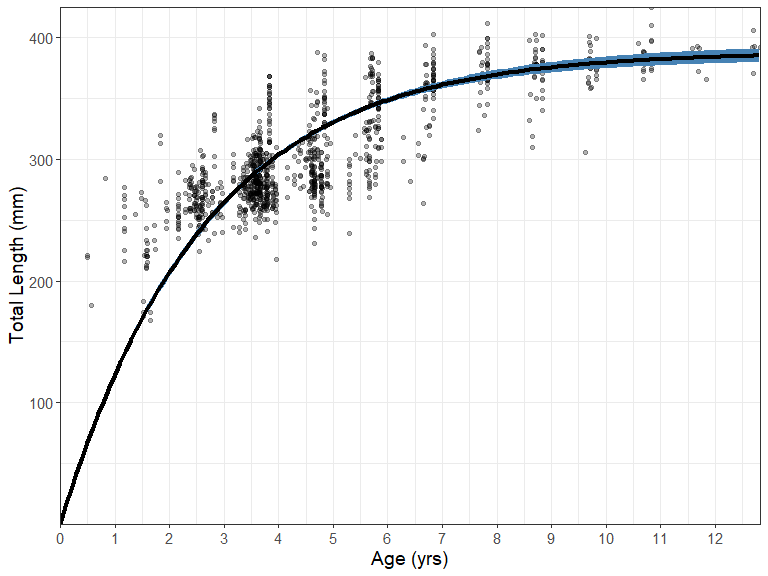
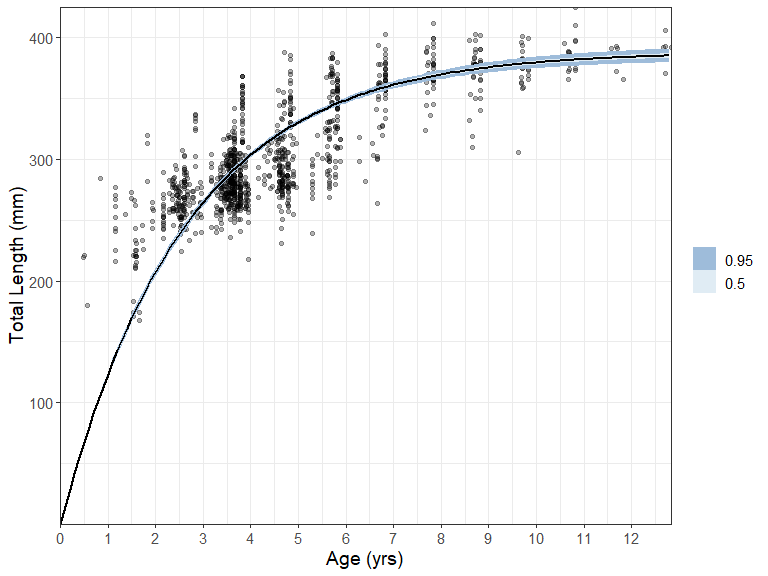
Tidied README

diff --git a/README.md b/README.md
@@ -8,12 +8,12 @@ BayesGrowth
 
 BayesGrowth combines length-at-age modelling for fisheries with MCMC implemented using JAGS and the [rjags](https://cran.r-project.org/web/packages/rjags/index.html) package. Growth modelling using models such as the von Bertalanffy growth model involves three parameters: *L*<sub>∞</sub>, *k* and either *L*<sub>0</sub> or *t*<sub>0</sub>. Two of these parameters: *L*<sub>0</sub> and *L*<sub>∞</sub> have direct biological meaning as the size-at-birth and maximum length, respectively. This package provides the tools to run an MCMC model with these two parameters treated as size-at-birth and maximum length using a JAGS model. This MCMC model is pre-specified and built into wrapper functions.
 
-The user can therefore run an MCMC growth model using knowledge of species length-at-birth and maximum size ast priors.
+The user can therefore run an MCMC growth model using knowledge of species length-at-birth and maximum size as priors.
 
 Installation
 ------------
 
-This package provides a series of wrapper functions to the rjags package which will run JAGS ("Just Another Gibbs Sampler") MCMC models. Therefore, *JAGS must be installed before this package is installed*. To install JAGS, visit: <https://sourceforge.net/projects/mcmc-jags/files/>
+This package provides a series of wrapper functions to the rjags package which will run JAGS ("Just Another Gibbs Sampler") MCMC models. Therefore, **JAGS must be installed before this package is installed**. To install JAGS, visit: <https://sourceforge.net/projects/mcmc-jags/files/>
 
 You can install the released version of BayesGrowth from [Github](https://github.com/jonathansmart/BayesGrowth) with:
 
@@ -24,7 +24,7 @@ devtools::install_github("jonathansmart/BayesGrowth")
 Usage
 -----
 
-The main `BayesGrowth` function is `Estimate_MCMC_Growth` which is the wrapper function around an rjags model. It requires a data input that includes Age and Length, a model needs to be specified (several options are available) and the priors must be specified. Priors include the max size with an error, length-at-birth with an error, an upper value for *k* and *σ*. These latter two parameters have no informative priors so just need senscible upper bounds. Many fish species (including this example) have a size at birth of zero. Therefore, this can be used along with a very small error to indicate that this is a certain value. The `L0.se` argument cannot be zero, although the model is specified to truncate it to zero and keep growth positive.
+The main `BayesGrowth` function is `Estimate_MCMC_Growth` which is the wrapper function around an rjags model. It requires a data input that includes columns that can be identified "Age" and "Length", the model needs to be specified (several options are available) and the priors must be specified. Priors include the max size with an error, length-at-birth with an error and upper limits for *k* and *σ*. These latter two parameters have no informative priors and only require sensible upper bounds. Many fish species (including this example) have a size at birth of zero. Therefore, this can value can be used as a prior along with a very small error to indicate high certainty of this prior. The `L0.se` argument cannot be zero, but the model is specified to truncate *L*<sub>0</sub> at zero and keep growth positive.
 
 ``` r
 library(BayesGrowth)
@@ -57,13 +57,13 @@ head(results)
 #> End = 1007 
 #> Thinning interval = 1 
 #>                L0     Linf         k    sigma
-#> [1,] 0.0007140421 389.2083 0.3812362 33.88953
-#> [2,] 0.0009684128 388.0148 0.3774248 33.74464
-#> [3,] 0.0000225300 389.3610 0.3833927 33.02893
-#> [4,] 0.0003189595 385.8569 0.3813557 33.42119
-#> [5,] 0.0001301606 387.0420 0.3821805 33.38645
-#> [6,] 0.0008697618 387.2100 0.3810786 34.72908
-#> [7,] 0.0001933690 389.9525 0.3807542 32.30058
+#> [1,] 0.0006845955 387.9871 0.3825990 33.51139
+#> [2,] 0.0006323733 388.1990 0.3828767 33.35809
+#> [3,] 0.0012184070 388.1364 0.3728779 35.09864
+#> [4,] 0.0005579542 390.4181 0.3781114 33.96910
+#> [5,] 0.0011577562 390.8885 0.3740543 34.00062
+#> [6,] 0.0006962200 392.4660 0.3698290 34.10827
+#> [7,] 0.0002979405 391.2133 0.3808038 33.44632
 #> 
 #> [[2]]
 #> Markov Chain Monte Carlo (MCMC) output:
@@ -71,13 +71,13 @@ head(results)
 #> End = 1007 
 #> Thinning interval = 1 
 #>                L0     Linf         k    sigma
-#> [1,] 0.0009373289 388.8947 0.3742611 33.74613
-#> [2,] 0.0006973102 390.0837 0.3778313 33.04571
-#> [3,] 0.0019347654 390.5374 0.3731896 32.99147
-#> [4,] 0.0009321508 392.9994 0.3666824 33.76493
-#> [5,] 0.0001182634 393.4887 0.3645631 34.17591
-#> [6,] 0.0013784802 395.0423 0.3648289 33.78332
-#> [7,] 0.0019840112 393.2772 0.3741709 33.88302
+#> [1,] 6.377257e-04 382.5258 0.3995279 33.71099
+#> [2,] 5.080692e-04 382.1476 0.3945358 33.08543
+#> [3,] 8.282502e-04 383.5932 0.3993649 33.04936
+#> [4,] 4.679651e-05 381.0961 0.4013889 32.23014
+#> [5,] 3.517429e-04 381.5760 0.3980532 32.51476
+#> [6,] 1.697605e-03 385.1239 0.3866437 33.23379
+#> [7,] 1.613641e-03 386.5134 0.3898650 32.88913
 #> 
 #> [[3]]
 #> Markov Chain Monte Carlo (MCMC) output:
@@ -85,13 +85,13 @@ head(results)
 #> End = 1007 
 #> Thinning interval = 1 
 #>                L0     Linf         k    sigma
-#> [1,] 1.524884e-03 382.0567 0.3973708 32.04994
-#> [2,] 3.744324e-04 383.6138 0.3974500 32.37718
-#> [3,] 1.855561e-03 382.7780 0.3979980 32.60266
-#> [4,] 6.220523e-05 382.1310 0.3978527 32.35666
-#> [5,] 4.363249e-04 383.0975 0.3899973 33.08628
-#> [6,] 5.341089e-04 385.7289 0.3898472 33.88497
-#> [7,] 7.557750e-04 385.3176 0.3869741 33.16633
+#> [1,] 0.0001014281 388.7340 0.3792396 34.02489
+#> [2,] 0.0008298235 387.5507 0.3829330 34.08608
+#> [3,] 0.0014248159 387.0859 0.3857916 33.44174
+#> [4,] 0.0006557494 386.7858 0.3848339 33.18208
+#> [5,] 0.0025026851 386.3485 0.3903799 33.35219
+#> [6,] 0.0007971464 384.8473 0.3864583 33.26862
+#> [7,] 0.0001179350 388.1401 0.3834866 33.90521
 #> 
 #> [[4]]
 #> Markov Chain Monte Carlo (MCMC) output:
@@ -99,13 +99,13 @@ head(results)
 #> End = 1007 
 #> Thinning interval = 1 
 #>                L0     Linf         k    sigma
-#> [1,] 1.589315e-03 387.0945 0.3808870 33.14831
-#> [2,] 1.094638e-03 386.6254 0.3860141 33.50220
-#> [3,] 4.755118e-04 388.3166 0.3865569 32.66871
-#> [4,] 5.591126e-05 386.3635 0.3879419 33.04041
-#> [5,] 3.037665e-04 386.4624 0.3811012 33.92760
-#> [6,] 1.787088e-04 387.6920 0.3800311 31.29473
-#> [7,] 8.820132e-05 388.4971 0.3803537 31.60521
+#> [1,] 5.222799e-04 386.7902 0.3894941 33.58785
+#> [2,] 8.565135e-04 384.8060 0.3878843 32.50063
+#> [3,] 1.722052e-06 385.2598 0.3843889 34.04545
+#> [4,] 8.038023e-04 386.4523 0.3870630 32.72811
+#> [5,] 6.076832e-05 387.1748 0.3854848 34.72827
+#> [6,] 1.502280e-03 387.1375 0.3857406 33.72246
+#> [7,] 1.922586e-04 387.3524 0.3835895 34.48434
 #> 
 #> attr(,"class")
 #> [1] "mcmc.list"
@@ -124,37 +124,39 @@ summary(results)
 #> 1. Empirical mean and standard deviation for each variable,
 #>    plus standard error of the mean:
 #> 
-#>            Mean        SD  Naive SE Time-series SE
-#> L0    7.980e-04 0.0006064 3.032e-06      3.017e-06
-#> Linf  3.881e+02 3.1672541 1.584e-02      6.144e-02
-#> k     3.816e-01 0.0086143 4.307e-05      1.680e-04
-#> sigma 3.355e+01 0.7696899 3.848e-03      7.130e-03
+#>            Mean       SD  Naive SE Time-series SE
+#> L0    7.971e-04 0.000609 3.045e-06      3.045e-06
+#> Linf  3.881e+02 3.140774 1.570e-02      6.050e-02
+#> k     3.818e-01 0.008597 4.298e-05      1.696e-04
+#> sigma 3.354e+01 0.769629 3.848e-03      6.897e-03
 #> 
 #> 2. Quantiles for each variable:
 #> 
 #>            2.5%       25%       50%       75%     97.5%
-#> L0    3.149e-05 3.145e-04 6.732e-04 1.151e-03 2.254e-03
-#> Linf  3.820e+02 3.860e+02 3.881e+02 3.902e+02 3.945e+02
-#> k     3.648e-01 3.758e-01 3.816e-01 3.873e-01 3.989e-01
-#> sigma 3.210e+01 3.303e+01 3.354e+01 3.406e+01 3.512e+01
+#> L0    2.867e-05 3.144e-04 6.680e-04 1.151e-03 2.266e-03
+#> Linf  3.820e+02 3.859e+02 3.880e+02 3.901e+02 3.943e+02
+#> k     3.654e-01 3.759e-01 3.817e-01 3.875e-01 3.989e-01
+#> sigma 3.208e+01 3.301e+01 3.353e+01 3.405e+01 3.510e+01
 plot(results,density = T, smooth = F)
 ```
 
 <img src="man/figures/README-Diagnostics-1.png" width="100%" />
 
-Additional `BayesGrowth` functions are available that help the user manipulate the objects. The `Calculate_MCMC_growth_curve` function will provide confidence intervals around the growth curve based on MCMC percentiles. This is essentially a wrapper around the `tidybayes::mean_qi()` function which means it can be passed straight into a ggplot with the `tidybayes::geom_line_ribbon` function.
+Additional `BayesGrowth` functions are available that help the user manipulate the returned `Estimate_MCMC_Growth` object. The `Calculate_MCMC_growth_curve` function will provide confidence intervals around the growth curve based on MCMC parameter percentiles. This is essentially a wrapper around the `tidybayes::mean_qi()` function which means it can be passed straight into a ggplot with the `tidybayes::geom_line_ribbon` function.
 
 ``` r
 
+# Return a growth curve with 50th and 95th percentiles
 growth_curve <- Calculate_MCMC_growth_curve(results, Model = "VB",
-                                            max.age = max(example_data$Age), probs = .95)
+                                            max.age = max(example_data$Age), probs = c(.5,.95))
 library(tidybayes)
 library(ggplot2)
 
 ggplot(growth_curve, aes(Age, LAA))+
   geom_point(data = example_data, aes(Age, Length), alpha = .3)+
-  geom_lineribbon(size = 1.5, fill = "steelblue") +
+  geom_lineribbon( size = .8) +
   labs(y = "Total Length (mm)", x = "Age (yrs)")+
+  scale_fill_brewer(palette="BuPu", direction=-1)+
   scale_y_continuous(expand = c(0,0))+
   scale_x_continuous(expand = c(0,0), breaks = seq(0,13,1))+
   theme_bw()+
